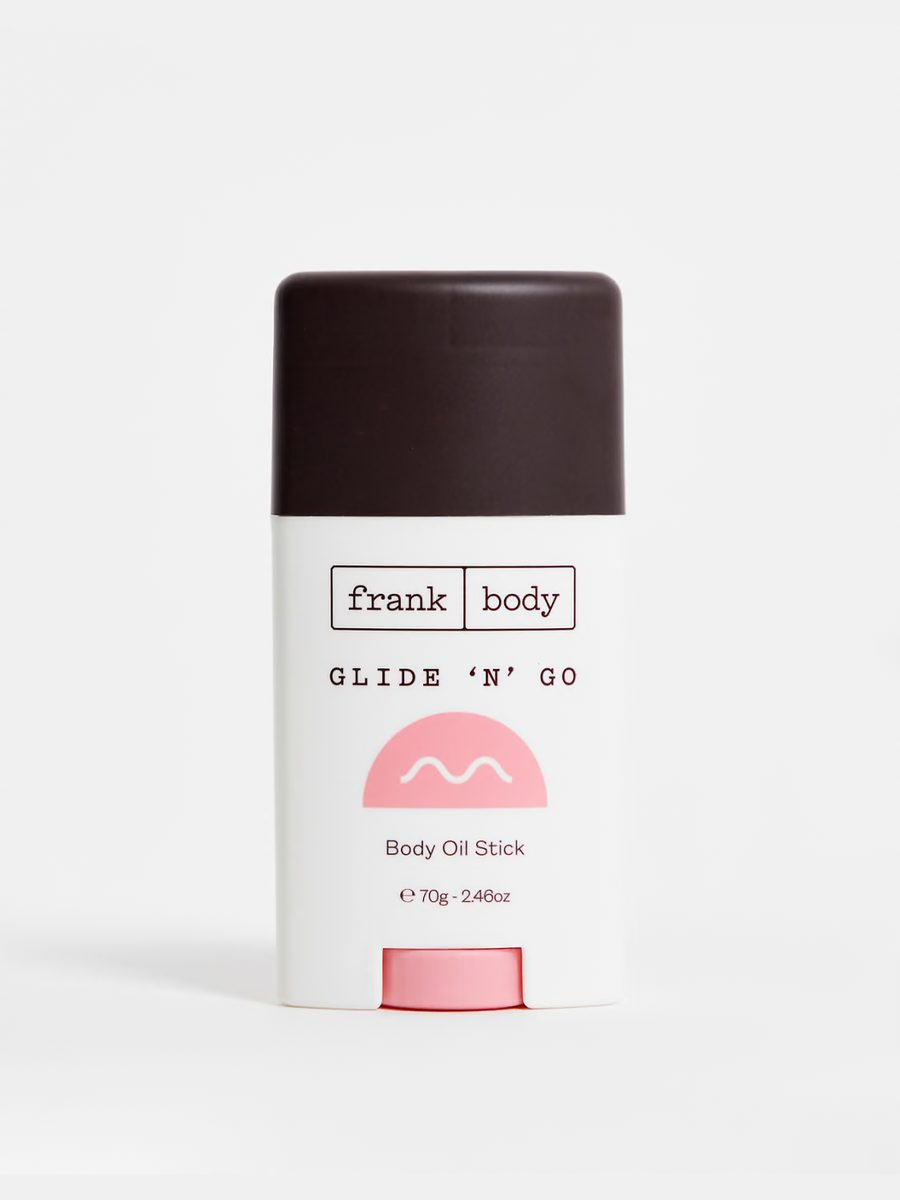
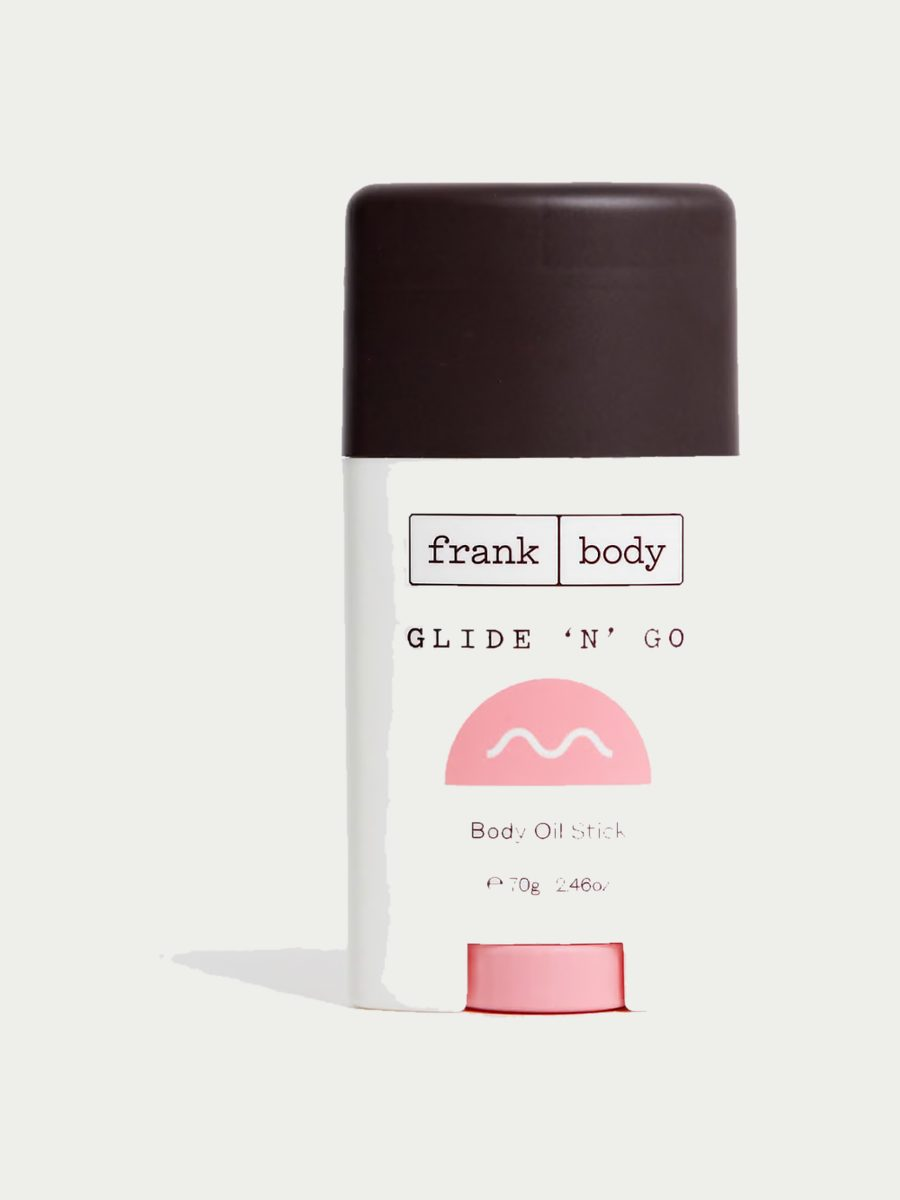
Gift guide: a wall of prints instead of a ruled list (two across on a phone like the wishlist, three on a desk), cut-outs keyed onto one warm plate, tighter cartels; generator carries the new Skimlinks id (Agathe, 2026-09-21: 'pas parfait en termes de design')

diff --git a/guides/stocking-stuffers-under-30/index.html b/guides/stocking-stuffers-under-30/index.html
@@ -52,25 +52,28 @@
   .hero .say { font-size: clamp(19px, 2.2vw, 24px); line-height: 1.4; margin-top: 24px; max-width: 30em; }
   .hero .meta { margin-top: 22px; font-size: 13px; font-weight: 300; color: var(--ink-soft); }
 
-  /* The pieces: a ruled list, one hairline per row, like cartels along a wall. */
-  .pieces { list-style: none; border-top: 1px solid var(--hairline); }
-  .piece { display: grid; grid-template-columns: minmax(0, 300px) minmax(0, 1fr); gap: 20px 48px;
-           padding: 36px 0; border-bottom: 1px solid var(--hairline); align-items: start; }
-  .piece figure img { width: 100%; aspect-ratio: 3 / 4; object-fit: cover; background: var(--paper-deep); }
-  .cartel { padding-top: 4px; }
-  .cartel .k { font-family: var(--serif); font-style: italic; font-weight: 300; font-size: 22px;
+  /* The pieces: a wall of prints with a cartel under each, two across on a
+     phone like the wishlist itself, three on a desk. No boxes, no rules
+     between them: the paper does the spacing. */
+  .pieces { list-style: none; display: grid; grid-template-columns: repeat(2, minmax(0, 1fr));
+            gap: 40px 20px; padding-top: 32px; border-top: 1px solid var(--hairline); }
+  @media (min-width: 900px) { .pieces { grid-template-columns: repeat(3, minmax(0, 1fr)); gap: 56px 32px; padding-top: 40px; } }
+  .piece { min-width: 0; }
+  .piece figure img { width: 100%; aspect-ratio: 3 / 4; object-fit: cover; background: var(--paper-deep);
+                      border-radius: 14px; }
+  .cartel { padding-top: 14px; }
+  .cartel .head { display: flex; align-items: baseline; gap: 10px; }
+  .cartel .k { font-family: var(--serif); font-style: italic; font-weight: 300; font-size: 18px;
                color: var(--cobalt); line-height: 1; }
-  .cartel .maker { margin-top: 18px; font-size: 13px; font-weight: 400; color: var(--ink-soft); }
-  .cartel h2 { margin-top: 6px; font-size: clamp(22px, 2.4vw, 30px); line-height: 1.22; letter-spacing: -0.01em; }
+  .cartel .maker { font-size: 12px; font-weight: 400; color: var(--ink-soft); }
+  .cartel h2 { margin-top: 6px; font-size: clamp(17px, 1.6vw, 21px); line-height: 1.3; letter-spacing: -0.005em;
+               overflow-wrap: anywhere; }
   .cartel h2 .price { color: var(--ink-soft); }
-  .cartel .note { margin-top: 14px; font-size: 16px; font-weight: 300; line-height: 1.5; max-width: 34em; }
-  .cartel .shop { display: inline-block; margin-top: 18px; font-size: 14px; font-weight: 400;
-                  text-decoration: underline; text-underline-offset: 3px; text-decoration-color: var(--ink-soft); }
+  .cartel .note { margin-top: 8px; font-size: 14px; font-weight: 300; line-height: 1.5; color: var(--ink); }
+  .cartel .shop { display: inline-block; margin-top: 10px; font-size: 13px; font-weight: 400;
+                  text-decoration: underline; text-underline-offset: 3px; text-decoration-color: var(--ink-soft);
+                  overflow-wrap: anywhere; }
   .cartel .shop:hover { text-decoration-color: var(--ink); }
-  @media (max-width: 640px) {
-    .piece { grid-template-columns: 1fr; gap: 16px; padding: 28px 0; }
-    .piece figure { max-width: 300px; }
-  }
 
   section.ask { padding: clamp(52px, 8vh, 88px) 0; }
   .ask h2 { font-size: clamp(30px, 4.6vw, 48px); font-weight: 300; letter-spacing: -0.02em; line-height: 1.1; max-width: 760px; }
@@ -116,8 +119,7 @@
         <li class="piece" id="p1">
           <figure><img src="../img/stocking-stuffers-under-30/01-bubble-tell-all-coffee.jpg" width="900" height="1200" alt="Bubble Tell All lip balm in its coffee brown tube."></figure>
           <div class="cartel">
-            <p class="k">1</p>
-            <p class="maker">Bubble</p>
+            <p class="head"><span class="k">1</span><span class="maker">Bubble</span></p>
             <h2 class="say">Tell All coffee lip balm<span class="price">, $9</span></h2>
           <p class="note">Coffee and cream flavor, with a keychain to clip it on.</p>
             <a class="shop" href="https://go.skimresources.com/?id=309668X1798032&url=https%3A%2F%2Fhellobubble.com%2Fproducts%2Ftell-all-coffee&xcust=guide-stocking-stuffers" rel="sponsored nofollow noopener" target="_blank">Shop at hellobubble.com</a>
@@ -126,8 +128,7 @@
         <li class="piece" id="p2">
           <figure><img src="../img/stocking-stuffers-under-30/02-touchland-velvet-peach.jpg" width="900" height="1200" alt="Touchland Power Mist, a flat peach coloured bottle of hydrating hand sanitizer, 1 fl oz."></figure>
           <div class="cartel">
-            <p class="k">2</p>
-            <p class="maker">Touchland</p>
+            <p class="head"><span class="k">2</span><span class="maker">Touchland</span></p>
             <h2 class="say">Velvet Peach Power Mist hand sanitizer<span class="price">, $10</span></h2>
           <p class="note">A fine mist that leaves hands soft. One fluid ounce, pocket sized.</p>
             <a class="shop" href="https://go.skimresources.com/?id=309668X1798032&url=https%3A%2F%2Ftouchland.com%2Fproducts%2Fvelvet-peach-power-mist&xcust=guide-stocking-stuffers" rel="sponsored nofollow noopener" target="_blank">Shop at touchland.com</a>
@@ -136,8 +137,7 @@
         <li class="piece" id="p3">
           <figure><img src="../img/stocking-stuffers-under-30/03-anthropologie-double-ruffle-socks.jpg" width="900" height="1200" alt="A pair of socks with a double ruffle at the cuff, by Anthropologie." loading="lazy"></figure>
           <div class="cartel">
-            <p class="k">3</p>
-            <p class="maker">Anthropologie</p>
+            <p class="head"><span class="k">3</span><span class="maker">Anthropologie</span></p>
             <h2 class="say">Double ruffle socks<span class="price">, $12</span></h2>
             <a class="shop" href="https://go.skimresources.com/?id=309668X1798032&url=https%3A%2F%2Fwww.anthropologie.com%2Fshop%2Fby-anthropologie-double-ruffle-socks&xcust=guide-stocking-stuffers" rel="sponsored nofollow noopener" target="_blank">Shop at anthropologie.com</a>
           </div>
@@ -145,8 +145,7 @@
         <li class="piece" id="p4">
           <figure><img src="../img/stocking-stuffers-under-30/04-sonix-beaded-phone-charm.jpg" width="900" height="1200" alt="A Sonix phone charm of amber, olive and blue glass beads, hanging from a pink phone case." loading="lazy"></figure>
           <div class="cartel">
-            <p class="k">4</p>
-            <p class="maker">Sonix</p>
+            <p class="head"><span class="k">4</span><span class="maker">Sonix</span></p>
             <h2 class="say">Beaded phone charm<span class="price">, $19</span></h2>
           <p class="note">Glass beads on a wristlet. It hooks onto any phone case.</p>
             <a class="shop" href="https://go.skimresources.com/?id=309668X1798032&url=https%3A%2F%2Fwww.anthropologie.com%2Fanthrohome%2Fshop%2Fsonix-beaded-phone-charm&xcust=guide-stocking-stuffers" rel="sponsored nofollow noopener" target="_blank">Shop at anthropologie.com</a>
@@ -155,8 +154,7 @@
         <li class="piece" id="p5">
           <figure><img src="../img/stocking-stuffers-under-30/05-frank-body-glide-n-go.jpg" width="900" height="1200" alt="Frank Body Glide &#x27;n&#x27; Go, a solid body oil in a twist up stick." loading="lazy"></figure>
           <div class="cartel">
-            <p class="k">5</p>
-            <p class="maker">Frank Body</p>
+            <p class="head"><span class="k">5</span><span class="maker">Frank Body</span></p>
             <h2 class="say">Glide &#x27;n&#x27; Go body oil stick<span class="price">, $20</span></h2>
           <p class="note">A solid body oil for elbows and knees, no mess. It smells of vanilla and coconut.</p>
             <a class="shop" href="https://go.skimresources.com/?id=309668X1798032&url=https%3A%2F%2Fus.frankbody.com%2Fproducts%2Fglide-n-go-body-oil-stick&xcust=guide-stocking-stuffers" rel="sponsored nofollow noopener" target="_blank">Shop at us.frankbody.com</a>
@@ -165,8 +163,7 @@
         <li class="piece" id="p6">
           <figure><img src="../img/stocking-stuffers-under-30/06-pipe-dream-pottery-demi-sipper.jpg" width="900" height="1200" alt="A small stoneware sipper cup by Pipe Dream Pottery, glazed in a soft colour." loading="lazy"></figure>
           <div class="cartel">
-            <p class="k">6</p>
-            <p class="maker">Pipe Dream Pottery</p>
+            <p class="head"><span class="k">6</span><span class="maker">Pipe Dream Pottery</span></p>
             <h2 class="say">Stoneware demi sipper<span class="price">, $22</span></h2>
           <p class="note">Stoneware, made by Pipe Dream Pottery for Anthropologie. A small cup for the first coffee.</p>
             <a class="shop" href="https://go.skimresources.com/?id=309668X1798032&url=https%3A%2F%2Fwww.anthropologie.com%2Fanthrohome%2Fshop%2Fpipe-dream-pottery-stoneware-demi-sipper&xcust=guide-stocking-stuffers" rel="sponsored nofollow noopener" target="_blank">Shop at anthropologie.com</a>
@@ -175,8 +172,7 @@
         <li class="piece" id="p7">
           <figure><img src="../img/stocking-stuffers-under-30/07-eadem-le-chouchou.jpg" width="900" height="1200" alt="EADEM Le Chouchou lip balm in its tube." loading="lazy"></figure>
           <div class="cartel">
-            <p class="k">7</p>
-            <p class="maker">EADEM</p>
+            <p class="head"><span class="k">7</span><span class="maker">EADEM</span></p>
             <h2 class="say">Le Chouchou peptide lip balm<span class="price">, $24</span></h2>
           <p class="note">A jelly balm that softens and smooths, with a peptide and hibiscus enzymes.</p>
             <a class="shop" href="https://go.skimresources.com/?id=309668X1798032&url=https%3A%2F%2Fwww.sephora.com%2Fproduct%2Feadem-le-chouchou-exfoliating-softening-peptide-lip-balm-P511921&xcust=guide-stocking-stuffers" rel="sponsored nofollow noopener" target="_blank">Shop at sephora.com</a>
@@ -185,8 +181,7 @@
         <li class="piece" id="p8">
           <figure><img src="../img/stocking-stuffers-under-30/08-summer-fridays-lip-butter-balm.jpg" width="900" height="1200" alt="Summer Fridays Lip Butter Balm in its cream coloured tube." loading="lazy"></figure>
           <div class="cartel">
-            <p class="k">8</p>
-            <p class="maker">Summer Fridays</p>
+            <p class="head"><span class="k">8</span><span class="maker">Summer Fridays</span></p>
             <h2 class="say">Lip butter balm<span class="price">, $24</span></h2>
           <p class="note">Shea and murumuru butters, a soft shine. Several flavors.</p>
             <a class="shop" href="https://go.skimresources.com/?id=309668X1798032&url=https%3A%2F%2Fwww.sephora.com%2Fproduct%2Fsummer-fridays-lip-butter-balm-P455936&xcust=guide-stocking-stuffers" rel="sponsored nofollow noopener" target="_blank">Shop at sephora.com</a>
@@ -195,8 +190,7 @@
         <li class="piece" id="p9">
           <figure><img src="../img/stocking-stuffers-under-30/09-anthropologie-ribbon-stripe-tumbler.jpg" width="900" height="1200" alt="A striped glass tumbler with a lid and a straw, by Anthropologie." loading="lazy"></figure>
           <div class="cartel">
-            <p class="k">9</p>
-            <p class="maker">Anthropologie</p>
+            <p class="head"><span class="k">9</span><span class="maker">Anthropologie</span></p>
             <h2 class="say">The Ribbon Stripe glass tumbler with lid<span class="price">, $24</span></h2>
             <a class="shop" href="https://go.skimresources.com/?id=309668X1798032&url=https%3A%2F%2Fwww.anthropologie.com%2Fanthrohome%2Fshop%2Fthe-ribbon-stripe-glass-tumbler-with-lid&xcust=guide-stocking-stuffers" rel="sponsored nofollow noopener" target="_blank">Shop at anthropologie.com</a>
           </div>
@@ -204,8 +198,7 @@
         <li class="piece" id="p10">
           <figure><img src="../img/stocking-stuffers-under-30/10-hydrojug-slim-can-cooler.jpg" width="900" height="1200" alt="A HydroJug slim can cooler in red gingham with a red screw-top lid." loading="lazy"></figure>
           <div class="cartel">
-            <p class="k">10</p>
-            <p class="maker">HydroJug</p>
+            <p class="head"><span class="k">10</span><span class="maker">HydroJug</span></p>
             <h2 class="say">Slim can cooler<span class="price">, $24.99</span></h2>
           <p class="note">Insulated steel with a screw-top lid, made for slim cans. This one in red gingham.</p>
             <a class="shop" href="https://go.skimresources.com/?id=309668X1798032&url=https%3A%2F%2Fwww.anthropologie.com%2Fanthrohome%2Fshop%2Fhydrojug-slim-can-cooler&xcust=guide-stocking-stuffers" rel="sponsored nofollow noopener" target="_blank">Shop at anthropologie.com</a>
@@ -214,8 +207,7 @@
         <li class="piece" id="p11">
           <figure><img src="../img/stocking-stuffers-under-30/11-rhode-pocket-blush.jpg" width="900" height="1200" alt="rhode pocket blush, a cream blush stick in a tan case with a raspberry pink bullet." loading="lazy"></figure>
           <div class="cartel">
-            <p class="k">11</p>
-            <p class="maker">rhode</p>
+            <p class="head"><span class="k">11</span><span class="maker">rhode</span></p>
             <h2 class="say">Pocket blush<span class="price">, $25</span></h2>
           <p class="note">A cream blush in a stick, for cheeks and lips.</p>
             <a class="shop" href="https://go.skimresources.com/?id=309668X1798032&url=https%3A%2F%2Fwww.rhodeskin.com%2Fproducts%2Fpocket-blush-piggy&xcust=guide-stocking-stuffers" rel="sponsored nofollow noopener" target="_blank">Shop at rhodeskin.com</a>
@@ -224,8 +216,7 @@
         <li class="piece" id="p12">
           <figure><img src="../img/stocking-stuffers-under-30/12-emily-lex-watercolor-workbook.jpg" width="900" height="1200" alt="The Emily Lex Studio watercolor workbook, a Christmas edition, lying open." loading="lazy"></figure>
           <div class="cartel">
-            <p class="k">12</p>
-            <p class="maker">Anthropologie</p>
+            <p class="head"><span class="k">12</span><span class="maker">Anthropologie</span></p>
             <h2 class="say">Emily Lex Studio watercolor workbook<span class="price">, $28</span></h2>
             <a class="shop" href="https://go.skimresources.com/?id=309668X1798032&url=https%3A%2F%2Fwww.anthropologie.com%2Fshop%2Femily-lex-studio-watercolor-workbook&xcust=guide-stocking-stuffers" rel="sponsored nofollow noopener" target="_blank">Shop at anthropologie.com</a>
           </div>
@@ -250,9 +241,5 @@
     <a href="https://apps.apple.com/app/id6787658989">App Store</a>
   </footer>
 </div>
-<!-- Skimlinks (SED-586): the reviewers look for this tag on the declared domain.
-     Our own outbound links are already wrapped by shopURL(); the script leaves
-     go.skimresources.com links alone. -->
-<script type="text/javascript" src="https://s.skimresources.com/js/309668X1798032.skimlinks.js"></script>
 </body>
 </html>

diff --git a/guides/index.html b/guides/index.html
@@ -51,25 +51,28 @@
   .hero .say { font-size: clamp(19px, 2.2vw, 24px); line-height: 1.4; margin-top: 24px; max-width: 30em; }
   .hero .meta { margin-top: 22px; font-size: 13px; font-weight: 300; color: var(--ink-soft); }
 
-  /* The pieces: a ruled list, one hairline per row, like cartels along a wall. */
-  .pieces { list-style: none; border-top: 1px solid var(--hairline); }
-  .piece { display: grid; grid-template-columns: minmax(0, 300px) minmax(0, 1fr); gap: 20px 48px;
-           padding: 36px 0; border-bottom: 1px solid var(--hairline); align-items: start; }
-  .piece figure img { width: 100%; aspect-ratio: 3 / 4; object-fit: cover; background: var(--paper-deep); }
-  .cartel { padding-top: 4px; }
-  .cartel .k { font-family: var(--serif); font-style: italic; font-weight: 300; font-size: 22px;
+  /* The pieces: a wall of prints with a cartel under each, two across on a
+     phone like the wishlist itself, three on a desk. No boxes, no rules
+     between them: the paper does the spacing. */
+  .pieces { list-style: none; display: grid; grid-template-columns: repeat(2, minmax(0, 1fr));
+            gap: 40px 20px; padding-top: 32px; border-top: 1px solid var(--hairline); }
+  @media (min-width: 900px) { .pieces { grid-template-columns: repeat(3, minmax(0, 1fr)); gap: 56px 32px; padding-top: 40px; } }
+  .piece { min-width: 0; }
+  .piece figure img { width: 100%; aspect-ratio: 3 / 4; object-fit: cover; background: var(--paper-deep);
+                      border-radius: 14px; }
+  .cartel { padding-top: 14px; }
+  .cartel .head { display: flex; align-items: baseline; gap: 10px; }
+  .cartel .k { font-family: var(--serif); font-style: italic; font-weight: 300; font-size: 18px;
                color: var(--cobalt); line-height: 1; }
-  .cartel .maker { margin-top: 18px; font-size: 13px; font-weight: 400; color: var(--ink-soft); }
-  .cartel h2 { margin-top: 6px; font-size: clamp(22px, 2.4vw, 30px); line-height: 1.22; letter-spacing: -0.01em; }
+  .cartel .maker { font-size: 12px; font-weight: 400; color: var(--ink-soft); }
+  .cartel h2 { margin-top: 6px; font-size: clamp(17px, 1.6vw, 21px); line-height: 1.3; letter-spacing: -0.005em;
+               overflow-wrap: anywhere; }
   .cartel h2 .price { color: var(--ink-soft); }
-  .cartel .note { margin-top: 14px; font-size: 16px; font-weight: 300; line-height: 1.5; max-width: 34em; }
-  .cartel .shop { display: inline-block; margin-top: 18px; font-size: 14px; font-weight: 400;
-                  text-decoration: underline; text-underline-offset: 3px; text-decoration-color: var(--ink-soft); }
+  .cartel .note { margin-top: 8px; font-size: 14px; font-weight: 300; line-height: 1.5; color: var(--ink); }
+  .cartel .shop { display: inline-block; margin-top: 10px; font-size: 13px; font-weight: 400;
+                  text-decoration: underline; text-underline-offset: 3px; text-decoration-color: var(--ink-soft);
+                  overflow-wrap: anywhere; }
   .cartel .shop:hover { text-decoration-color: var(--ink); }
-  @media (max-width: 640px) {
-    .piece { grid-template-columns: 1fr; gap: 16px; padding: 28px 0; }
-    .piece figure { max-width: 300px; }
-  }
 
   section.ask { padding: clamp(52px, 8vh, 88px) 0; }
   .ask h2 { font-size: clamp(30px, 4.6vw, 48px); font-weight: 300; letter-spacing: -0.02em; line-height: 1.1; max-width: 760px; }
@@ -136,9 +139,5 @@
     <a href="https://apps.apple.com/app/id6787658989">App Store</a>
   </footer>
 </div>
-<!-- Skimlinks (SED-586): the reviewers look for this tag on the declared domain.
-     Our own outbound links are already wrapped by shopURL(); the script leaves
-     go.skimresources.com links alone. -->
-<script type="text/javascript" src="https://s.skimresources.com/js/309668X1798032.skimlinks.js"></script>
 </body>
 </html>

diff --git a/guides/build.py b/guides/build.py
@@ -28,7 +28,7 @@ SITE = "https://wantd.sedonatech.uk"
 # Sedona Tech Ltd on Skimlinks (same id as the board). Every outbound shop
 # link goes through the wrapper, never bare: an unmonetised shop simply passes
 # through to its own page (SED-586).
-SKIMLINKS_ID = "308847X1797169"
+SKIMLINKS_ID = "309668X1798032"   # second application, 2026-09-21
 APP_STORE = "https://apps.apple.com/app/id6787658989"
 
 HERE = os.path.dirname(os.path.abspath(__file__))
@@ -41,19 +41,57 @@ PLATE_W, PLATE_H = 900, 1200
 # Photos: the shop's own picture, set on a 3:4 plate the colour of its own
 # background, so the plate reads as one piece of paper and never as a crop.
 # --------------------------------------------------------------------------
+PAPER_DEEP = (238, 238, 235)
+
+
+def keyed(im, thresh=42):
+    """A product shot on a plain studio backdrop becomes a cut-out: the
+    backdrop is flooded from the four corners and turned transparent, so the
+    piece can stand on our own plate. Only for the images filed under
+    cutouts/; an editorial photo keeps its light and its shadows."""
+    from PIL import ImageChops, ImageDraw, ImageFilter
+    work = im.convert("RGB").copy()
+    w, h = work.size
+    marker = (255, 0, 255)
+    for pt in ((0, 0), (w - 1, 0), (0, h - 1), (w - 1, h - 1), (w // 2, 0), (w // 2, h - 1), (0, h // 2), (w - 1, h // 2)):
+        if work.getpixel(pt) != marker:
+            ImageDraw.floodfill(work, pt, marker, thresh=thresh)
+    diff = ImageChops.difference(work, Image.new("RGB", work.size, marker)).convert("L")
+    alpha = diff.point(lambda v: 0 if v == 0 else 255).filter(ImageFilter.MinFilter(3)).filter(ImageFilter.GaussianBlur(0.8))
+    out = im.convert("RGBA")
+    out.putalpha(alpha)
+    return out
+
+
 def plate(src, dest):
+    """A cut-out stands on the same warm grey plate as every card of the app
+    and the board, with room around it; a shop photo keeps its own backdrop,
+    extended to the 3:4 plate so it reads as one print and never as a crop
+    (Agathe, 2026-09-21: the white and beige rectangles of the first draft
+    looked like a patchwork)."""
     if os.path.exists(dest) and os.path.getmtime(dest) >= os.path.getmtime(src):
         return
-    im = Image.open(src).convert("RGB")
-    w, h = im.size
-    k = max(8, min(w, h) // 40)
-    corners = [im.crop(b).resize((1, 1), Image.BOX).getpixel((0, 0)) for b in
-               ((0, 0, k, k), (w - k, 0, w, k), (0, h - k, k, h), (w - k, h - k, w, h))]
-    bg = tuple(sum(c[i] for c in corners) // 4 for i in range(3))
-    scale = min(PLATE_W / w, PLATE_H / h)
-    fitted = im.resize((max(1, round(w * scale)), max(1, round(h * scale))), Image.LANCZOS)
-    canvas = Image.new("RGB", (PLATE_W, PLATE_H), bg)
-    canvas.paste(fitted, ((PLATE_W - fitted.width) // 2, (PLATE_H - fitted.height) // 2))
+    im = Image.open(src)
+    cut = "/cutouts/" in src.replace(os.sep, "/")
+    if cut or "A" in im.getbands():
+        im = keyed(im) if "A" not in im.getbands() else im.convert("RGBA")
+        im = im.crop(im.getbbox() or (0, 0) + im.size)
+        w, h = im.size
+        scale = min(PLATE_W * 0.70 / w, PLATE_H * 0.70 / h)
+        fitted = im.resize((max(1, round(w * scale)), max(1, round(h * scale))), Image.LANCZOS)
+        canvas = Image.new("RGB", (PLATE_W, PLATE_H), PAPER_DEEP)
+        canvas.paste(fitted, ((PLATE_W - fitted.width) // 2, (PLATE_H - fitted.height) // 2), fitted)
+    else:
+        im = im.convert("RGB")
+        w, h = im.size
+        k = max(8, min(w, h) // 40)
+        corners = [im.crop(b).resize((1, 1), Image.BOX).getpixel((0, 0)) for b in
+                   ((0, 0, k, k), (w - k, 0, w, k), (0, h - k, k, h), (w - k, h - k, w, h))]
+        bg = tuple(sum(c[i] for c in corners) // 4 for i in range(3))
+        scale = min(PLATE_W / w, PLATE_H / h)
+        fitted = im.resize((max(1, round(w * scale)), max(1, round(h * scale))), Image.LANCZOS)
+        canvas = Image.new("RGB", (PLATE_W, PLATE_H), bg)
+        canvas.paste(fitted, ((PLATE_W - fitted.width) // 2, (PLATE_H - fitted.height) // 2))
     os.makedirs(os.path.dirname(dest), exist_ok=True)
     canvas.save(dest, "JPEG", quality=82, optimize=True, progressive=True)
 
@@ -112,25 +150,28 @@ CSS = """
   .hero .say { font-size: clamp(19px, 2.2vw, 24px); line-height: 1.4; margin-top: 24px; max-width: 30em; }
   .hero .meta { margin-top: 22px; font-size: 13px; font-weight: 300; color: var(--ink-soft); }
 
-  /* The pieces: a ruled list, one hairline per row, like cartels along a wall. */
-  .pieces { list-style: none; border-top: 1px solid var(--hairline); }
-  .piece { display: grid; grid-template-columns: minmax(0, 300px) minmax(0, 1fr); gap: 20px 48px;
-           padding: 36px 0; border-bottom: 1px solid var(--hairline); align-items: start; }
-  .piece figure img { width: 100%; aspect-ratio: 3 / 4; object-fit: cover; background: var(--paper-deep); }
-  .cartel { padding-top: 4px; }
-  .cartel .k { font-family: var(--serif); font-style: italic; font-weight: 300; font-size: 22px;
+  /* The pieces: a wall of prints with a cartel under each, two across on a
+     phone like the wishlist itself, three on a desk. No boxes, no rules
+     between them: the paper does the spacing. */
+  .pieces { list-style: none; display: grid; grid-template-columns: repeat(2, minmax(0, 1fr));
+            gap: 40px 20px; padding-top: 32px; border-top: 1px solid var(--hairline); }
+  @media (min-width: 900px) { .pieces { grid-template-columns: repeat(3, minmax(0, 1fr)); gap: 56px 32px; padding-top: 40px; } }
+  .piece { min-width: 0; }
+  .piece figure img { width: 100%; aspect-ratio: 3 / 4; object-fit: cover; background: var(--paper-deep);
+                      border-radius: 14px; }
+  .cartel { padding-top: 14px; }
+  .cartel .head { display: flex; align-items: baseline; gap: 10px; }
+  .cartel .k { font-family: var(--serif); font-style: italic; font-weight: 300; font-size: 18px;
                color: var(--cobalt); line-height: 1; }
-  .cartel .maker { margin-top: 18px; font-size: 13px; font-weight: 400; color: var(--ink-soft); }
-  .cartel h2 { margin-top: 6px; font-size: clamp(22px, 2.4vw, 30px); line-height: 1.22; letter-spacing: -0.01em; }
+  .cartel .maker { font-size: 12px; font-weight: 400; color: var(--ink-soft); }
+  .cartel h2 { margin-top: 6px; font-size: clamp(17px, 1.6vw, 21px); line-height: 1.3; letter-spacing: -0.005em;
+               overflow-wrap: anywhere; }
   .cartel h2 .price { color: var(--ink-soft); }
-  .cartel .note { margin-top: 14px; font-size: 16px; font-weight: 300; line-height: 1.5; max-width: 34em; }
-  .cartel .shop { display: inline-block; margin-top: 18px; font-size: 14px; font-weight: 400;
-                  text-decoration: underline; text-underline-offset: 3px; text-decoration-color: var(--ink-soft); }
+  .cartel .note { margin-top: 8px; font-size: 14px; font-weight: 300; line-height: 1.5; color: var(--ink); }
+  .cartel .shop { display: inline-block; margin-top: 10px; font-size: 13px; font-weight: 400;
+                  text-decoration: underline; text-underline-offset: 3px; text-decoration-color: var(--ink-soft);
+                  overflow-wrap: anywhere; }
   .cartel .shop:hover { text-decoration-color: var(--ink); }
-  @media (max-width: 640px) {
-    .piece { grid-template-columns: 1fr; gap: 16px; padding: 28px 0; }
-    .piece figure { max-width: 300px; }
-  }
 
   section.ask { padding: clamp(52px, 8vh, 88px) 0; }
   .ask h2 { font-size: clamp(30px, 4.6vw, 48px); font-weight: 300; letter-spacing: -0.02em; line-height: 1.1; max-width: 760px; }
@@ -239,8 +280,7 @@ def render_guide(g):
         pieces.append(f"""        <li class="piece" id="p{n}">
           <figure><img src="{rel}" width="{PLATE_W}" height="{PLATE_H}" alt="{escape(it['alt'])}"{' loading="lazy"' if n > 2 else ''}></figure>
           <div class="cartel">
-            <p class="k">{n}</p>
-            <p class="maker">{escape(it['brand'])}</p>
+            <p class="head"><span class="k">{n}</span><span class="maker">{escape(it['brand'])}</span></p>
             <h2 class="say">{escape(it['name'])}<span class="price">, {escape(it['price'])}</span></h2>{note}
             <a class="shop" href="{shop}" rel="sponsored nofollow noopener" target="_blank">Shop at {escape(host(it['url']))}</a>
           </div>
